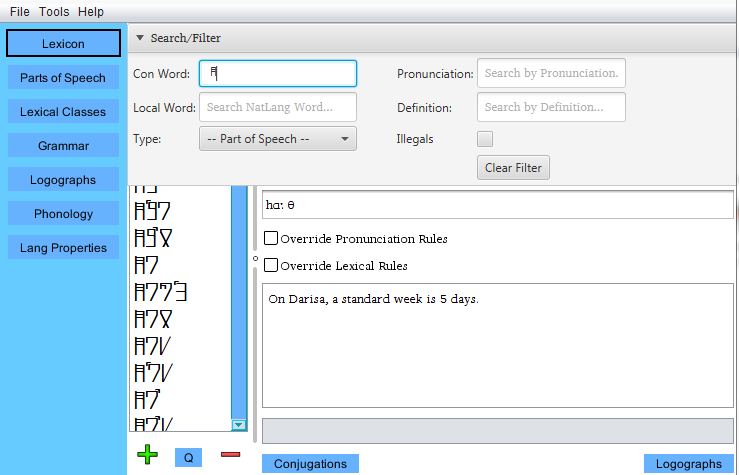
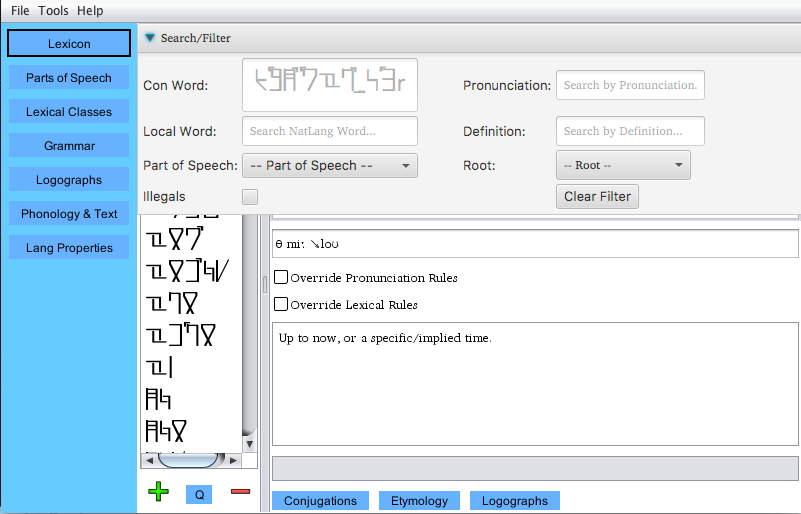
Completes/closes #449

Changed region(s): [[0.0, 0.0, 1.0, 1.0], [0.8403, 0.2063, 0.8714, 0.2358], [0.0, 0.9726, 0.0311, 1.0]]

diff --git a/docs/readme.html b/docs/readme.html
@@ -30,7 +30,7 @@
         <!-- Static navbar -->
         <div class="navbar navbar-inverse navbar-static-top">
             <div class="container">
-                <div class="navbar-header"> <button type="button" class="navbar-toggle" data-toggle="collapse" data-target=".navbar-collapse"> <span class="icon-bar"></span> <span class="icon-bar"></span> <span class="icon-bar"></span> </button> <a class="navbar-brand" href="index.html">PolyGlot v 2.0</a> </div>
+                <div class="navbar-header"> <button type="button" class="navbar-toggle" data-toggle="collapse" data-target=".navbar-collapse"> <span class="icon-bar"></span> <span class="icon-bar"></span> <span class="icon-bar"></span> </button> <a class="navbar-brand" href="index.html">PolyGlot v 2.1</a> </div>
                 <div class="navbar-collapse collapse">
                     <ul class="nav navbar-nav navbar-right">
                         <li><a href="https://github.com/DraqueT/PolyGlot">GitHub Page</a><br>
@@ -52,7 +52,7 @@
             <div class="container">
                 <div class="row">
                     <div class="col-lg-8 col-lg-offset-2 centered"> <img src="assets/PolyGlot%20Logo.png" alt="PolyGlot">
-                        <h1>Version 2.0</h1>
+                        <h1>Version 2.1</h1>
                         <!-- POLYGLOT STUFF START -->
                         <div style="text-align: left;"><a href="#WELCOMEOVERVIEW">i.
                                 Overview/Welcome</a><br>
@@ -70,6 +70,7 @@
                             &nbsp;&nbsp;&nbsp; <a href="#-_Language_Properties">- Language
                                 Properties</a><br>
                             &nbsp;&nbsp;&nbsp; <a href="#PHONOLOGY">- Phonology</a><br>
+							&nbsp;&nbsp;&nbsp; <a href="#ROMANIZATION">- Romanization</a><br>
                             &nbsp;&nbsp;&nbsp; <a href="#-_Images">- Images in Text</a><br>
                             &nbsp;&nbsp;&nbsp; <a href="#-_Family_Window">- Family Window</a><br>
                             &nbsp;&nbsp;&nbsp; <a href="#-_Accessing_the_Help_File">- Accessing
@@ -97,45 +98,32 @@
                                 source</a>
                             tool set that helps to build constructed languages! PolyGlot
                             is a project that I have been working on for some time, and it
-                            continues to become stable and capable with each release. If you
+                            continues to become more stable and capable with each release. If you
                             have ideas, find bugs, or have any comments at all, please feel free to
                             email me at <a href="mailto:draquemail@gmail.com">draquemail@gmail.com</a>!</div>
 
                         <h1><a name="-----_ii_-----"></a>WHAT’S NEW</h1>
-                        <div align ="left"><br>The under the hood bug-fixes and 
-                            modifications this time around were massive. There were serious issues with data
-                            persistence corrected, numerous UI failings addressed, and countless minor bugs. In
-                            the process of the UI rewrite, a LOT of very old code was replaced. For every
-                            visible upgrade to PolyGlot this time around, there were a dozen tweaks to behavior
-                            that the end user will hopefully never notice. There's a reason this is being marked
-                            as 2.0.<br><br>
-
-                            The biggest improvement to PolyGlot is obviously the UI. This time around it is
-                            completely revamped. Almost all of the changes are based on user requests that I've
-                            gotten over time, and I am hoping that the new design significantly improves workflow
-                            within the system. In addition to this, there are some new features to play with as well!
-                            I have updated the class system to allow for free text classes. These classes are simply
-                            blank text fields added to words in your lexicon (as with the original classes, they can
-                            be assigned to particular parts of speech).
-
-                            The Windows frontend should make things much easier for those of you on Microsoft OSes. 
-                            It will associate itself with the PGD filetype, given them a nifty little icon, and 
-                            open them in PolyGlot automatically when they are double clicked.
-
-                            A much requested feature was a way to eliminate deprecated wordforms. Although sometimes
-                            these can be useful when revaming a system that includes manual exceptions to rules, it's
-                            often just a pain. In the conjugations/declensions window, I've added a button that will
-                            purge all deprecated wordforms for a given part of speech.<br><br>
+                        <div align ="left"><br>So this is a pretty big release of PolyGlot! There's a whole new
+                        Etymology engine that should help people to develop languages in a more iterative fashion,
+                        speed and stability optimizations, a character replacement macro, which will make typing 
+                        easier for you lovers of diacritic marks, user-modifiable kerning (long time coming!), and 
+                        a big update for anyone into complex phonemic orthographies.
+                        <br><br>
+                        As always, there were more bug fixes than anyone here is likely to be interested in hearing
+                        about, and a few that existed since the very earliest implementations of PolyGlot.
+                        For every visible upgrade to PolyGlot this time around, there were a dozen tweaks to behavior
+                        that the end user will hopefully never notice.<br><br>
                         </div>
 
                         <div align ="left"><ul>
-                                <li>total UI revamp</li>
-                                <li>Created freetext option for classes</li>
-                                <li>Windows Frontend now included</li>
-                                <li>Wipe Deprecated Wordforms option implemented</li>
-                                <li>Split Phonology into its own section</li>
-                                <li>Added Romanization option to Phonology section</li>
-                                <li>Upgraded to iText 7.0.1 for PDF printing</li>
+                                <li>Etymology Engine implemented!</li>
+                                <li>Search now includes word roots</li>
+                                <li>Significant UI speed optimizations</li>
+                                <li>Character Macros implemented (type one charcter, PolyGlot changes it to something you specify)</li>
+                                <li>User editable kerning (this one was a bitch)</li>
+                                <li>Phonemic Orthography now 100% regex compatible, and supports recursive logic</li>
+                                <li>Menu fonts resizable</li>
+                                <li>Tooltips now unicode compatible</li>
                             </ul></div>
 
                         <a name="INSTALLATION"></a>
@@ -170,7 +158,7 @@
                             After this, simply double click PolyGlot.jar and it should open up for you!</div>
                         <br><br>
                         MAC:<br>
-                        TODO: Rewrite this if the Mac frontend is finished in time...
+                        <div align="left">Unzip PlyGlot into a folder and double click PolyGlot.jar to run!</div>
                         <br><br>
                         LINUX:<br>
                         <div align ="left">Simply unzip the files where you like and run! For convenience, there is a script
@@ -260,7 +248,8 @@
                             a filter menu slides down (shown above). Here, you can filter words by
                             any of their main properties. The ConWord filter field will filter not
                             only on words' base forms, but also any declensions/conjugations of words.
-                            Fields are compatible with regex expressions.<br></div>
+                            Fields are compatible with regex expressions. Only word roots that have been used
+                            in the etymology engine will show up in the <br></div>
                         <br>
                         <br>
                         <a name="-_Word_Types"></a>- Parts of Speech<br>
@@ -601,7 +590,11 @@
                             will be ordered in standard fashion (as decided by your operating
                             system). Here, I have set the alphabetic order to follow qwerty. This
                             will order the dictionary and any alphabetically ordered fields with
-                            the order you provide.<br></div>
+                            the order you provide.<br>
+                            <br>
+                            - Kerning<br>
+                            The default value for kerning is set to 0. Making this larger or smaller 
+                            (into negatives) allows you to edit space between characters.<br></div>
                         <br>
 
                         <br>
@@ -765,18 +758,15 @@
                             from is set here. If you do not use multiple sheets, simply leave it to
                             its default value of 0.<br>
                             <br>
-                            <h2>- Exporting</h2><br>
-                            <br>
-                            &nbsp;&nbsp;&nbsp; Exporting from PolyGlot is very simple. Simply click
-                            Tools-&gt; Export to Excel and select a path/filename to export to. An
-                            excel file with separate sheets for vocab, types, word classes, and
-                            pronunciations will be created.</div>
+                            </div>
 
-                        <a name="PHONOLOGY"></a><h1>Phonology</h1><br>
-                        <img style="width: 199px; height: 283px;" alt="" src="assets/pron1.png"><br>
+                        <a name="PHONOLOGY"></a><h1>Phonemic Orthology</h1><br>
+                        <img src="assets/pron1.png"><br>
                         <br>
 
-                        <div align ="left">The above image shows the Character Pronunciation guide. New rows can
+                        <div align ="left">The above image shows the Phonemic Orthology guide. 
+                        This can be found by clicking the Phonology and Text menu button on the
+                        left of PolyGlot's menu. It is the first of the three menus. New rows can
                         be added with the Add button, and selected columns can be deleted with
                         the Delete button. The Character(s) row represents one character or a
                         series of characters that make up a sound or phoneme. The Pronunciation
@@ -786,7 +776,7 @@
                         save a lot of time. Both columns are compatible with regular
                         expressions (explained below).<br>
                         <br>
-                        Of note is the both upper and lower cases must be entered into the
+                        Of note is that both upper and lower cases must be entered into the
                         pronunciation guide unless both the <span style="font-weight: bold;">Ignore
                             Case</span> option and the <span style="font-weight: bold;">Disable
                             Proc Regex</span> options are selected.<br>
@@ -799,7 +789,7 @@
                         others. By selecting a row and clicking the up or down arrow to the
                         right of the guide, you can move a set to higher or lower priorities in
                         the guide. <br>
-
+                        
                         <br>
                         In addition to the basic functionality, the pronunciation guide is
                         compatible with regular expressions. For example, if you added the pair
@@ -808,25 +798,50 @@
                         orthographies to be easily be created. Links in the references section
                         of this document lead to good regular expression tutorials.<br>
                         <br>
+                        
+                        <br>
+                        The last element of the pronunciation guide is the Recurse Patterns button. 
+                        This enables a powerful function in PolyGlot, which will comb through a word 
+                        multiple times, applying new pronunciations so long as there are more transformations
+                        defined in the left column that might apply.
+                        <br><br>
+                        
                         <span style="font-weight: bold;">WORD OF WARNING:</span> Please be sure
                         to type in the "Character(s)" field in the exact same way as you are
                         going to be entering your words. I have encountered users that have
                         accidentally entered lookalike characters into the left-hand column.
                         This will mean that you cannot properly use the autopopulate feature.
-                        Keep in mind that just because "<br></div>
+                        Keep in mind that just because it looks correct does not mean that it 
+                        actually is.<br></div>
                         <br>
                         <br>
                         <img style="width: 514px; height: 222px;" alt="" src="assets/pron2.png"><br>
                         <br>
 
-                        <div align ="left">Back on the Dictionary tab, the pronunciation of our new word has
+                        <div align ="left">Back in the Dictionary menu, the pronunciation of our new word has
                         auto-populated! For more complex languages that use IPA pronunciation
                         standards, or other symbols, this can save a lot of tedious work.<br><br>
-                        
-                        Of note is the the Romanization fields work identically. The only difference is that
-                        the feature must be activated via the checkbox above its grid, and that generated
-                        Romanizations <i>cannot</i> be edited in the Lexicon.</div>
+                        </div>
 
+						<a name="ROMANIZATION"></a><h1>Word Romanization</h1><br>
+                        <img src="assets/pron3.png"><br>
+                        <br>
+						<div align ="left">
+						Romanization works identically to the pronunciation system. It is disabled by 
+						default. When enabled, a text box containing romanized words will appear on the 
+						Lexicon screen.
+                        </div>
+                        
+                        <a name="CHARREP"></a><h1>Character Replacement (Macros)</h1><br>
+                        <img src="assets/pron5.png"><br>
+                        <br>
+						<div align ="left">
+						This section will allow you to easily type words with diacritic marks without 
+						having to cramp your fingers. In the example, k is transformed to a K&#831. 
+						This will be applied in all PolyGlot fields that you type into, and be 
+						copied/pasted elsewhere.
+						</div>
+                        
                         <a name="STATISTICS_REPORT"></a><h1>Statistics Report</h1>
                         <br>
                         <div align ="left">To generate a statistics report on your language, click Tools-> Language Statistics
@@ -854,7 +869,12 @@
                                 words:</span> counts instances of each phoneme as used in all words<br>
                             <span style="font-style: italic;">Heat map of letter combination
                                 frequency:</span> This is a heat map of letter combinations used in
-                            your language. The fewer instances, the bluer a combination tile, the <br></div>
+                            your language. The fewer instances, the bluer a combination tile<br></div><br><br>
+                            
+                            Below are examples of the visual charts which the generated by the statistics report:<br><br>
+                            
+                            <img src="assets/stats1.png"><br><br>
+                            <img src="assets/stats2.png"><br><br>
 
 
                         <a name="LOGOGRAPHIC_DICTIONARY"></a><h1>Logographic Dictionary</h1>
